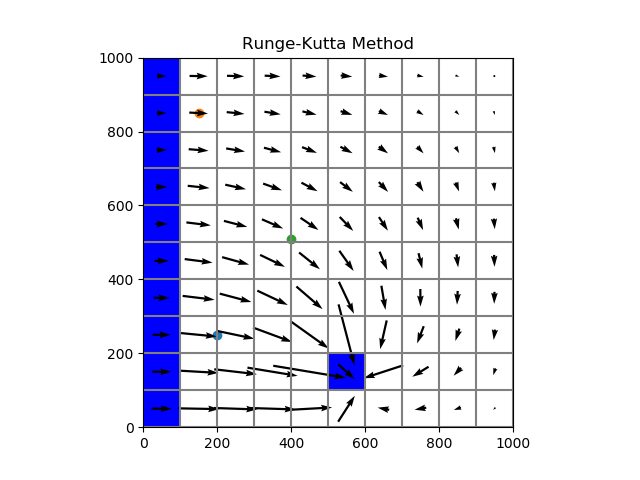
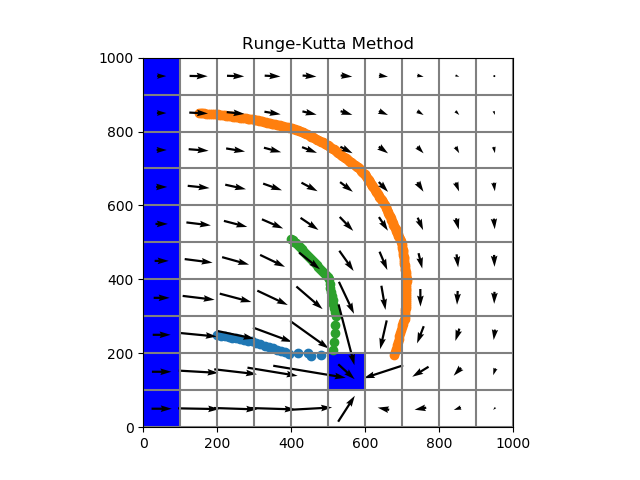
added in the Zheng and Bennet method

Changed region(s): [[0.3125, 0.2188, 0.6562, 0.75], [0.3438, 0.5, 0.5312, 0.75]]

diff --git a/partipy/partipy.py b/partipy/partipy.py
@@ -49,7 +49,7 @@ def weak_sink(times,time,cbbobj,fff,frf,l,r,c):
     chb[chb == 0] = np.nan
     Qsnk = chb[l][r,c]
     snk = Qsnk/Qin
-    print(Qsnk,Qin)
+    # print(Qsnk,Qin)
     if snk < 1:
         return True
     else:
@@ -167,14 +167,22 @@ class track_particles():
                 vyp2 = -(fff[l][r,c]) / (delc[r] * thk[l][r,c] * n)
                 yp3 = yp0 + vyp2 * delt
 
-                vxp3 = (frf[l][r,c]) / delr[c] * thk[l][r,c]
-                xnp1 = xpts[-1] + (delt/6)*(vxp0 + 2*vxp1 + 2*vxp2 + vxp3)
+                l,r,c = what_cell_am_i_in((xp3,yp3),1,delc,delr)
+                if not in_domain(r,c,self.nrow,self.ncol): break
 
-                vyp3 = (frf[l][r,c]) / delr[c] * thk[l][r,c]
+                vxp3 = (frf[l][r,c]) / (delr[c] * thk[l][r,c] * n)
+                xnp1 = xpts[-1] + (delt/6)*(vxp0 + 2*vxp1 + 2*vxp2 + vxp3)
+                # print(f'{xpts[-1]}  + ({delt}/6)*({vxp0} + 2*{vxp1} + 2*{vxp2} + {vxp3})')
+                vyp3 = (frf[l][r,c]) / (delr[c] * thk[l][r,c] *n)
                 ynp1 = ypts[-1] + (delt/6)*(vyp0 + 2*vyp1 + 2*vyp2 + vyp3)
 
-                xpts.append(xnp1)
-                ypts.append(ynp1)
+                l,r,c = what_cell_am_i_in((xnp1,ynp1),1,delc,delr)
+                if weak_sink(self.times,time,self.cbbobj,fff,frf,l,r,c):
+                    break
+                else:
+                    xpts.append(xp3)
+                    ypts.append(yp3)
+
             end_pts[i] = [xpts, ypts]
         return end_pts
 

diff --git a/partipy/learn_to_fly.py b/partipy/learn_to_fly.py
@@ -9,12 +9,14 @@ model_ws = os.path.join('..','examples')
 modelname = 'tutorial1'
 
 starting_locs = [(199,250),(150,850),(400,510)]
+# starting_locs = [(199,250)]
+
 
 # particles = partipy.track_particles.rk4(starting_locs=starting_locs,n=3,delt=20,ntimes=30)
 tp = partipy.track_particles(modelname+'.cbc',model_ws,modelname,starting_locs,.3,5,int(3*365/5))
 
-# particles = tp.rk4()
-particles = tp.Zheng()
+particles = tp.rk4()
+# particles = tp.Zheng()
 
 px, py = particles[0]
 px1,py1 = particles[1]
